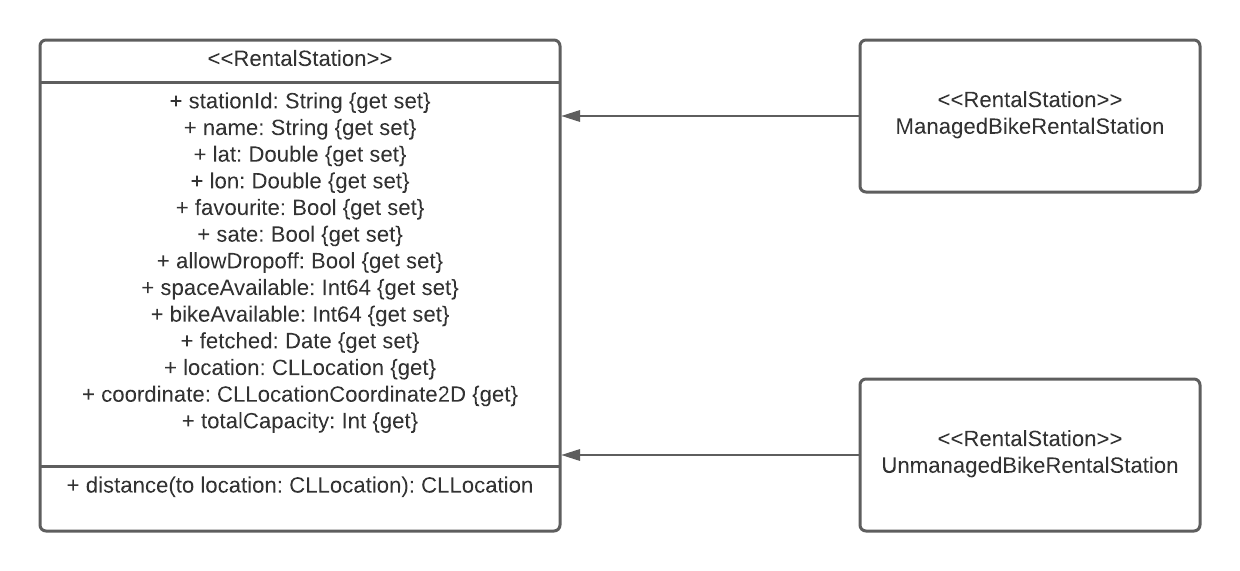
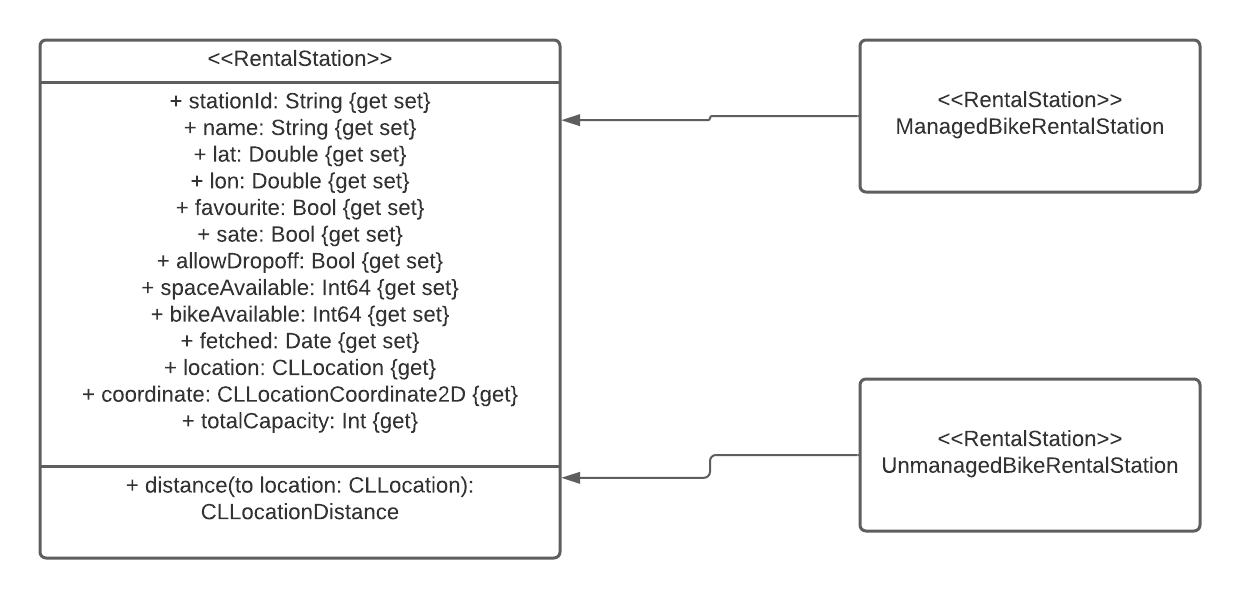
Documentation

diff --git a/Documentation/Architecture.md b/Documentation/Architecture.md
@@ -20,6 +20,10 @@ HKI Bike Buddy is built using the model-view-viewmodel (MVVM) design pattern. In
 The UI is built almost entirely using SwiftUI. UiKit was used on one view where MapKit was needed (MapView). Navigation between the views of the application is done using the SwiftUI components NavigationView and TabView which are contained in ``ContentView.swift``.
 
 ## Models
+There are two types of bike rental stations in the application: favourite stations and non-favourite stations. [Core Data](https://developer.apple.com/documentation/coredata) is used for persistance storage of objects. Core Data is an object graph management and persistance framework made by Apple. In HKI Bike Buddy it is used to save stations on the device so that the users favourite stations can be recalled after the application has been closed. Core Data abstracts the actual management of a database making it easier to persistently save objects. This is why the data model of the application consists of two bike rental station classes: ManagedBikeRentalStation and UnmanagedBikeRentalStation. ManagedBikeRentalStation class has been generated using the ``HelsinkiBikeBuddy.xcdatamodeld`` and is a subclass of NSManagedObject (required for an object to be saved using Core Data). All bike rental stations start out as UnmanagedBikeRentalStations. When the user favourites a station it is converted into a ManagedBikeRentalStation object (and is saved on the device). When a station is un-favourited it is converted back to a UnmanagedBikeRentalStation (and so removed from persistent storage).
+
 ![ModelsDiagram](https://raw.githubusercontent.com/JuanitoSebastian/HelsinkiBikeBuddy/main/Documentation/graphics/ModelsDiagram.png)
 
-There are two types of bike rental stations in the application: favourite stations and non-favourite stations. [Core Data](https://developer.apple.com/documentation/coredata) is used for persistance storage of objects. Core Data is an object graph management and persistance framework made by Apple. In HKI Bike Buddy it is used to save stations on the device so that the users favourite stations can be recalled after the application has been closed. Core Data abstracts the actual management of a database making it easier to persistently save objects. This is why the data model of the application consists of two bike rental station classes: ManagedBikeRentalStation and UnmanagedBikeRentalStation. ManagedBikeRentalStation class has been generated using the ``HelsinkiBikeBuddy.xcdatamodeld`` and is a subclass of NSManagedObject (required for an object to be saved using Core Data). All bike rental stations start out as UnmanagedBikeRentalStations. When the user favourites a station it is converted into a ManagedBikeRentalStation object (and is saved on the device). When a station is un-favourited it is converted back to a UnmanagedBikeRentalStation (and so removed from persistent storage).
+Both ManagedBikeRentalStation and UnmanagedBikeRentalStation classes conform to the RentalStation protocol. This makes it possible to work interchangeably with both types of bike rental stations and not having to write class specific code for each station. Some information about the variables and functions:
+*  ``fetched`` is Date object containing the information of when the data of the station was last updated with from the API
+*  ``distance(to location: CLLocation): CLLocationDistance`` returns the distance between the RentalStation and the CLLocation object given as parameter. This is used to order the RentalStations from nearest to furthest from the user.
